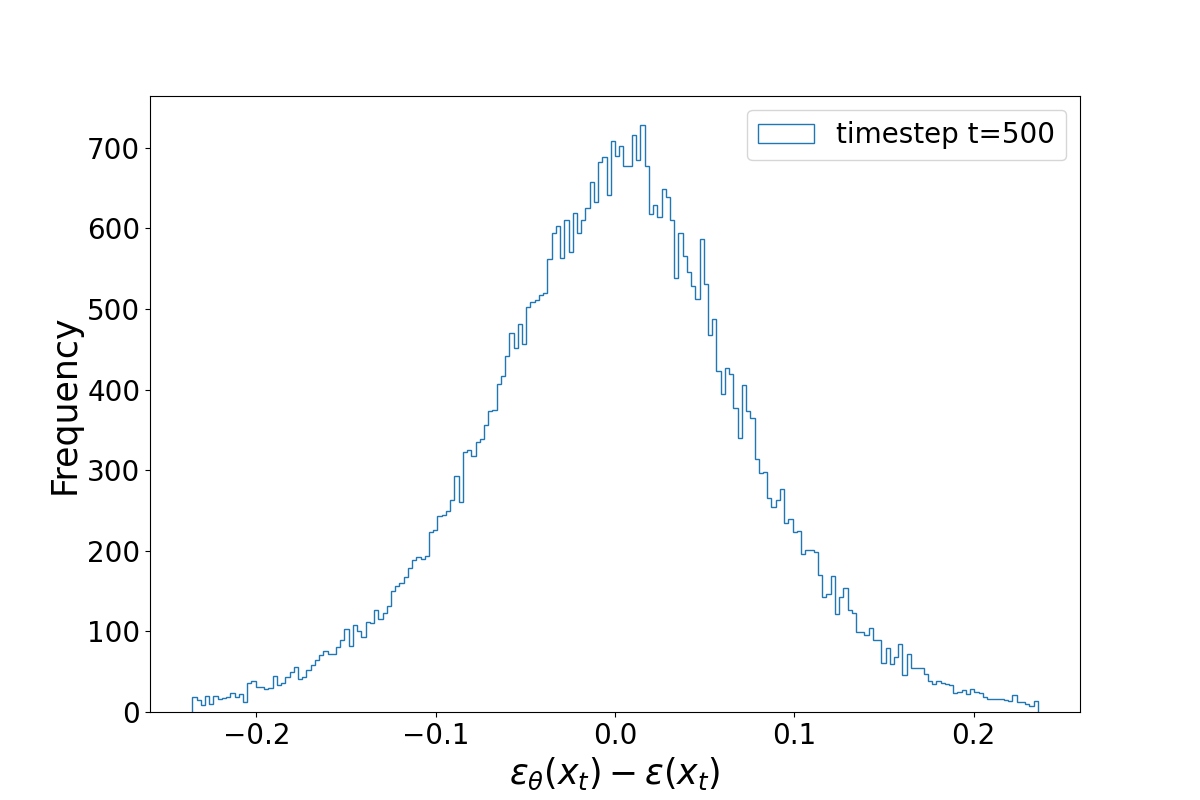
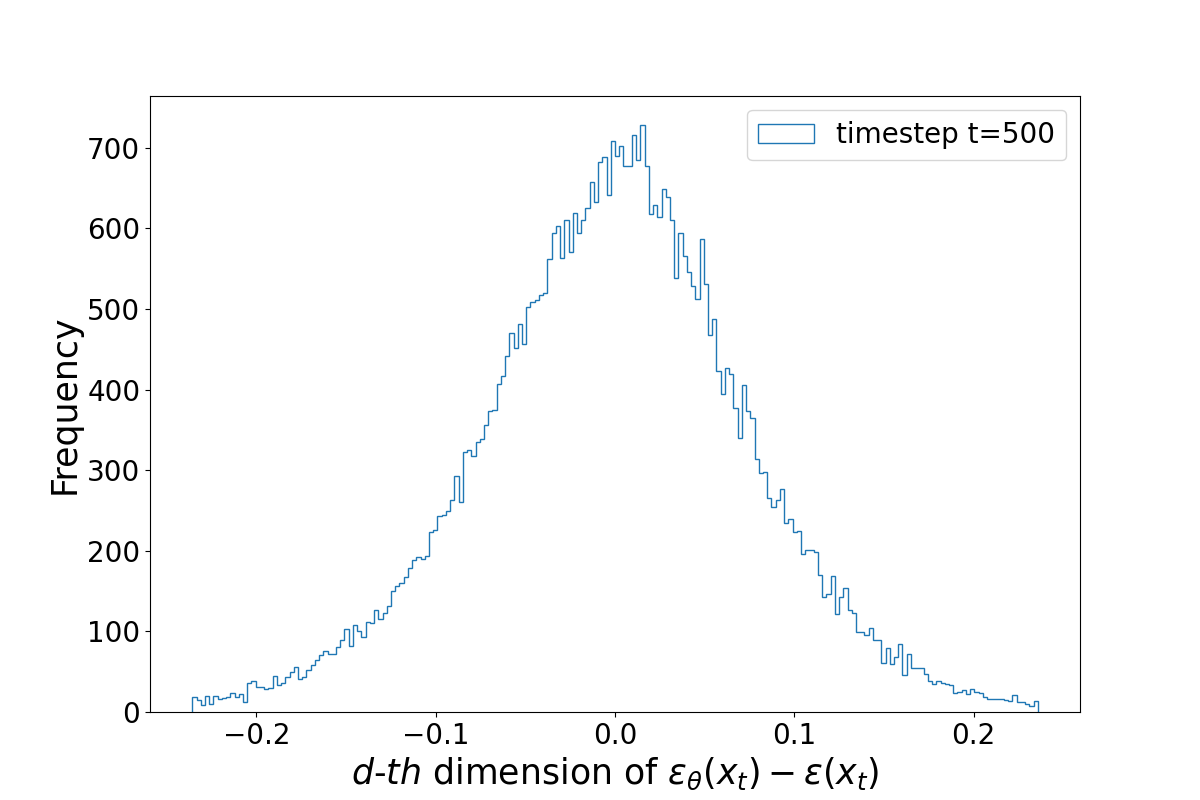
main_chart.py::prediction_error_distribution(): X axis label d-th dimension of . . .

Changed region(s): [[0.2775, 0.9375, 0.74, 1.0]]

diff --git a/main_chart.py b/main_chart.py
@@ -832,7 +832,7 @@ def prediction_error_distribution():
     def set_plt_ui(_ax):
         plt.tick_params('both', labelsize=20)
         # plt.title(r"Distribution of prediction error", fontsize=25)
-        plt.xlabel(r"$\epsilon_\theta(x_t) - \epsilon(x_t)$", fontsize=25)
+        plt.xlabel(r"$d$-$th$ dimension of $\epsilon_\theta(x_t) - \epsilon(x_t)$", fontsize=25)
         plt.ylabel("Frequency", fontsize=25)
         plt.legend(fontsize=20, loc='upper right')
         d = dict(fontsize=18, transform=_ax.transAxes)
